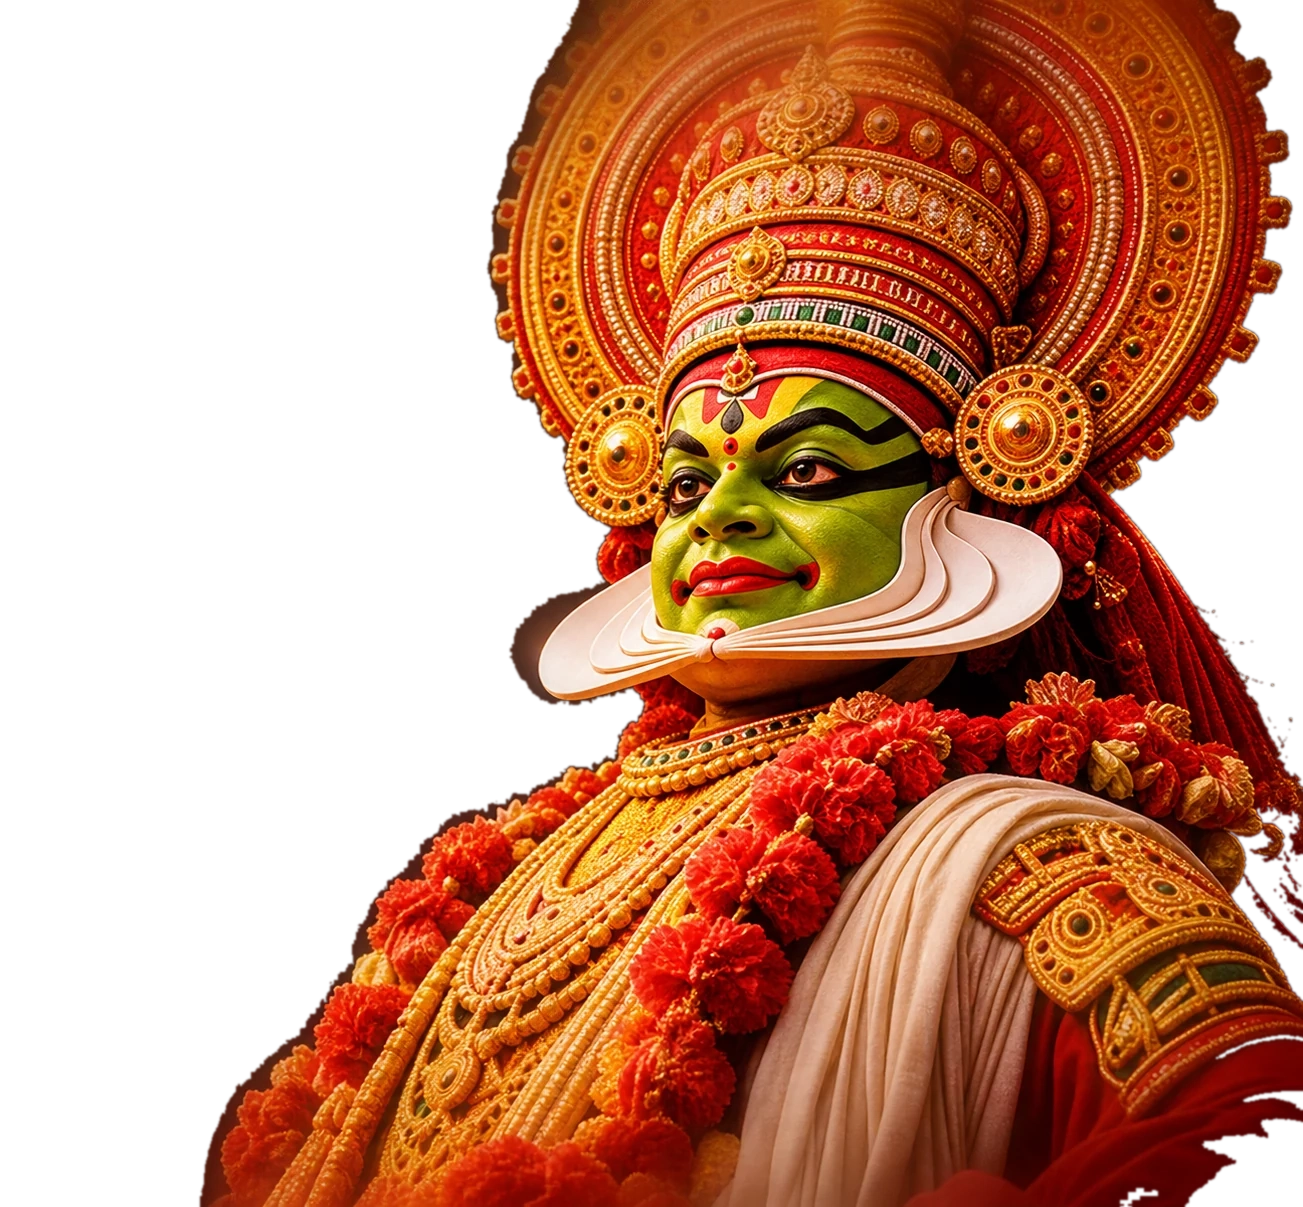
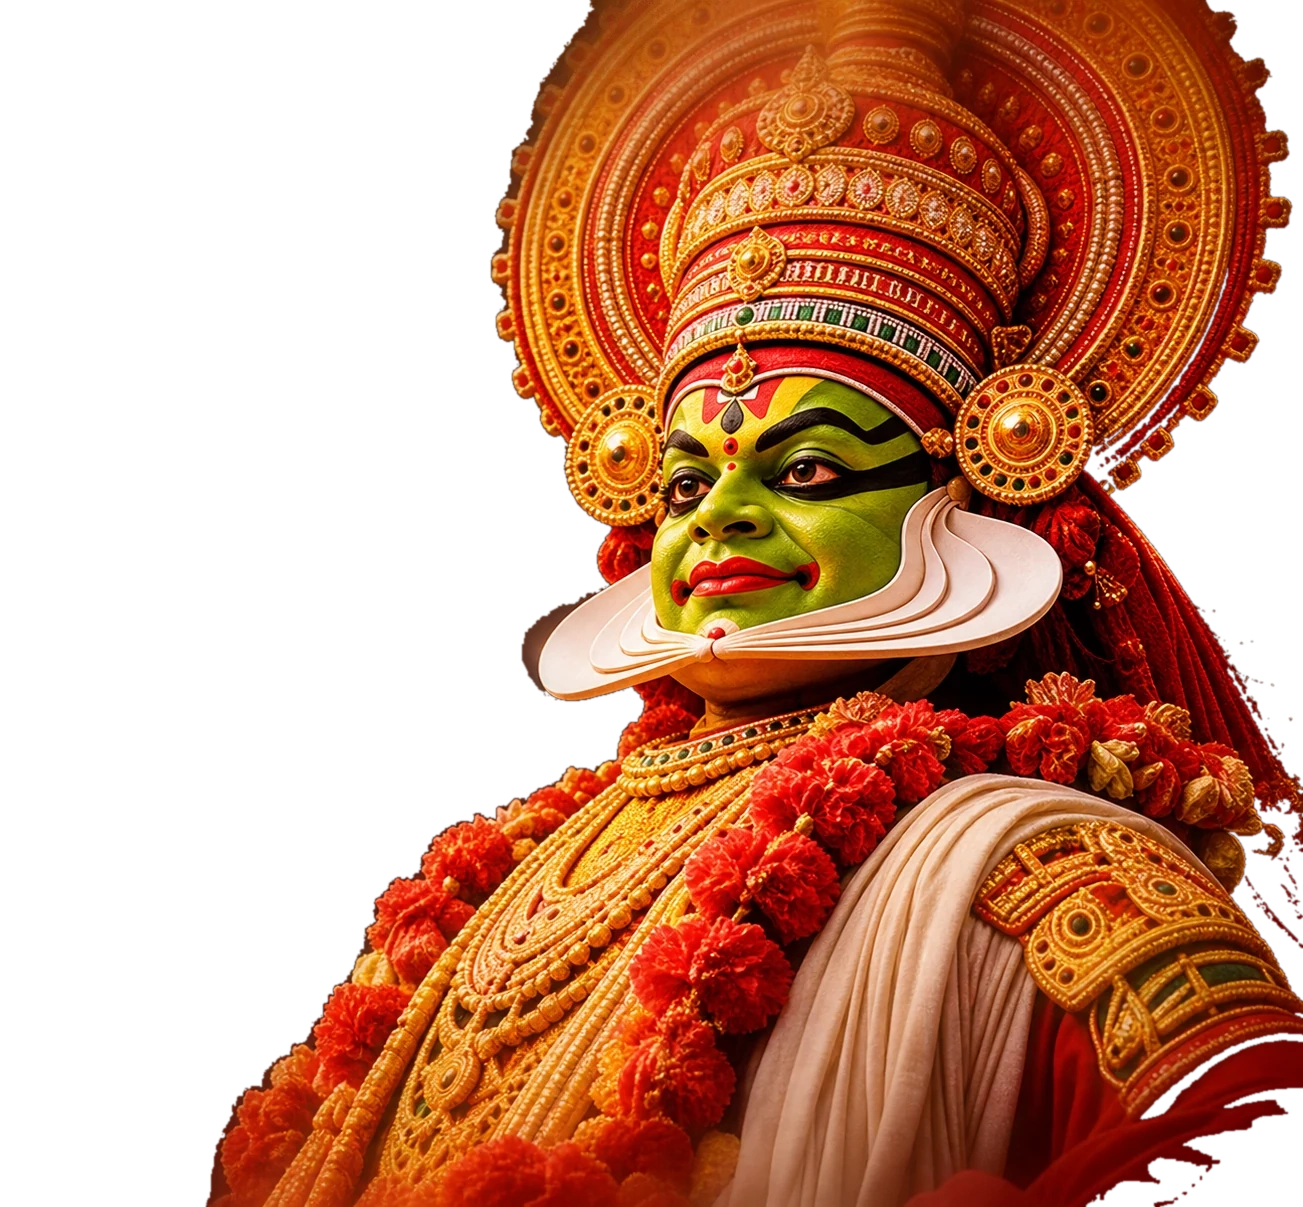
fix(hero): eliminate remaining dark edge fringe and replace black drop-shadow with warm backlight

diff --git a/src/app/hero-kerala.css b/src/app/hero-kerala.css
@@ -110,7 +110,7 @@
   width: 56%;
   z-index: 4;
   height: auto;
-  filter: drop-shadow(0 14px 28px rgba(0, 0, 0, .38)) saturate(1.1);
+  filter: drop-shadow(0 8px 24px rgba(160, 70, 15, .2)) saturate(1.08);
   transform: translate3d(calc(var(--mx) * -34px), calc(var(--my) * -18px + var(--ksy, 0) * -.08px), 0) rotateY(calc(var(--mx) * -3.8deg)) rotateX(calc(var(--my) * 2.2deg));
   transition: none !important;
   will-change: transform;
